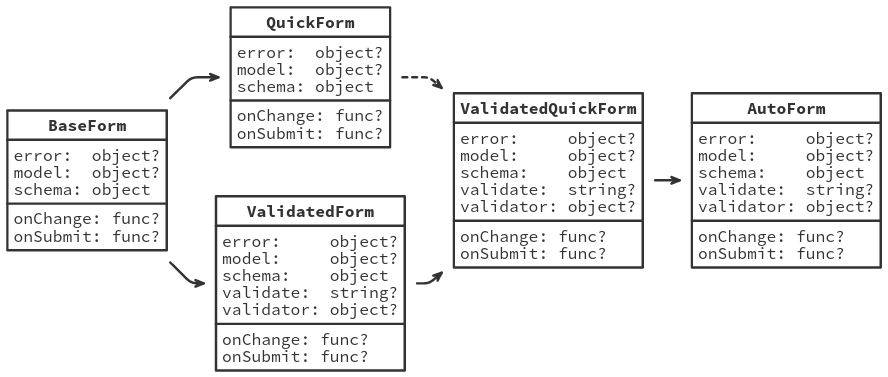
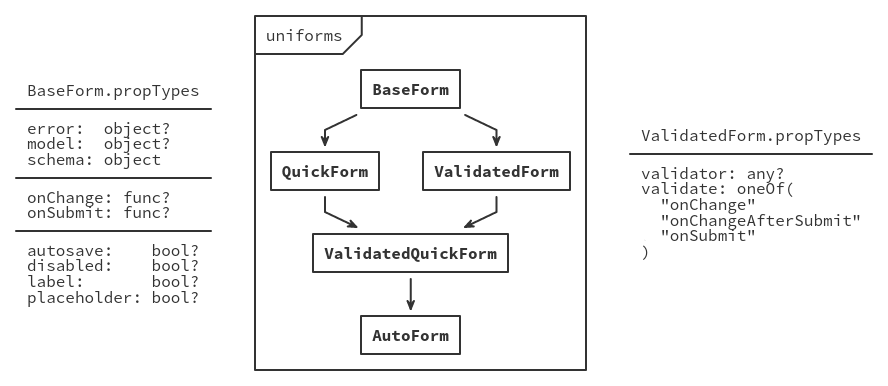
Updated README.

Changed region(s): [[0.0, 0.0, 1.0, 0.992]]

diff --git a/README.md b/README.md
@@ -5,22 +5,36 @@
 </p>
 
 <p align="center">
-    <img src="https://img.shields.io/github/license/vazco/uniforms.svg?maxAge=86400" alt="license">
+    <a href="#">
+        <img src="https://img.shields.io/github/license/vazco/uniforms.svg?maxAge=86400" alt="license">
+    </a>
 
     <a href="https://npmjs.org/package/uniforms">
         <img src="https://img.shields.io/npm/v/uniforms.svg?maxAge=86400" alt="npm version">
     </a>
 
-    <img src="https://img.shields.io/codeship/fe6eb2a0-f8df-0133-0060-4e010acc8333/master.svg?maxAge=86400" alt="build status">
+    <a href="#">
+        <img src="https://img.shields.io/codeship/fe6eb2a0-f8df-0133-0060-4e010acc8333/master.svg?maxAge=86400" alt="build status">
+    </a>
 </p>
 
 # uniforms
 
-This is a set of npm packages designed for Meteor, which contains helpers and `React` components - both unstyled and stylised with the Semantic UI - to easily create, generate and validate forms using [`SimpleSchema`](https://github.com/aldeed/meteor-simple-schema).
+This is a set of npm packages designed for Meteor (but completely independent!), which contains helpers and [`React`](https://facebook.github.io/react/) components - both unstyled and stylised with the Bootstrap3, Bootstrap4 and Semantic UI - to easily create, generate and validate forms using [`SimpleSchema`](https://github.com/aldeed/meteor-simple-schema), or your custom schemas.
 
 **Note:** Following examples are heavily based on `SimpleSchema`, but it's not mandatory and you can easily [use different schemas](#custom-schema).
 
-## Installation
+## Installation - npm
+
+```shell
+# Components (pick one)
+$ npm install --save react uniforms uniforms-bootstrap3
+$ npm install --save react uniforms uniforms-bootstrap4
+$ npm install --save react uniforms uniforms-semantic
+$ npm install --save react uniforms uniforms-unstyled
+```
+
+## Installation - Meteor
 
 These are npm packages, so they can't imply any Meteor package, and you have to install dependencies manually, in your Meteor app directory:
 
@@ -40,6 +54,7 @@ $ meteor npm install --save react uniforms uniforms-unstyled
 Firstly, write your schemas:
 
 ```js
+// Using SimpleSchema
 const PersonSchema = new SimpleSchema({
     name: {
         type: String,
@@ -79,12 +94,14 @@ const PostSchema = new SimpleSchema({
         optional: true
     }
 });
+
+// More about custom schemas below
 ```
 
 Then, import all needed components:
 
 ```js
-# Replace 'uniforms-semantic' with other components set, if needed
+// Replace 'uniforms-semantic' with other components set, if needed
 import {AutoForm}  from 'uniforms-semantic';
 import {AutoField} from 'uniforms-semantic';
 ```
@@ -199,7 +216,7 @@ Currently built-in bridges:
 
 - SimpleSchema
 
-**Note:** Further information in [`src/bridges/Bridge.js`](src/bridges/Bridge.js).
+**Note:** Further information in [`Bridge.js`](https://github.com/vazco/uniforms/blob/master/packages/uniforms/src/bridges/Bridge.js).
 
 ### Custom component in SimpleSchema
 
@@ -279,9 +296,6 @@ Every prop can be overriden, but `label`, `placeholder` and `disabled` have spec
 ### Forms components
 
 ![](README.png)
-**Note:**
-*Temporarily this image is a bit outdated - inheritance has changed.*
-*Also `BaseForm` (and his descendants) has new prop - `autosave`.*
 
 <br />
 
@@ -339,15 +353,23 @@ MyComponent.contextTypes = {
 };
 ```
 
+**Note:** What's more in context? Discover it in [`BaseForm.js`](https://github.com/vazco/uniforms/blob/master/packages/uniforms/src/components/forms/BaseForm.js).
+
 ### Contributing
 
-Anyone is welcome to contribute. Fork, make your changes, run tests, and then submit a pull request.
+Everyone is welcome to contribute. Create an issue or fork, make your changes, run tests, and then submit a pull request.
 
 ```shell
-$ npm test # run tests
+# Single package
+$ npm run lint # run lints
+$ npm run test # run tests
 $ npm run build # build src/
 $ npm run watch # build src/ continuously
 $ npm run cover # build code coverage raport
+
+# All packages
+$ npm run lint # run lints
+$ npm run test # run tests
 ```
 
 ### Copyright and license
